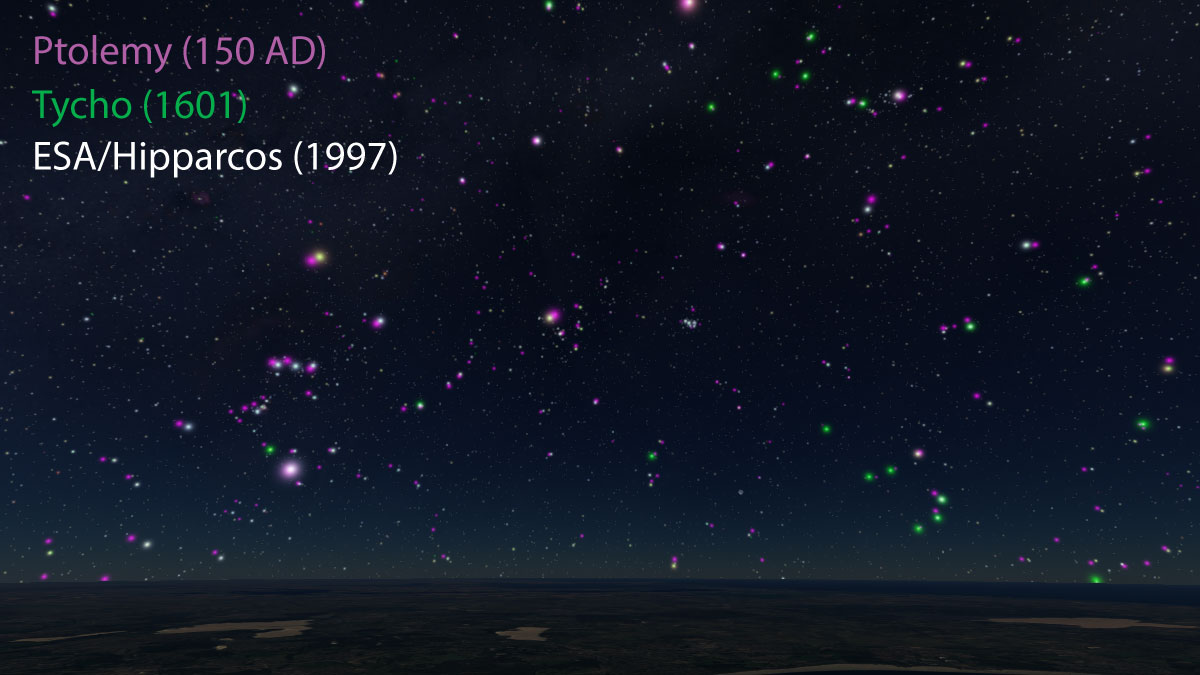
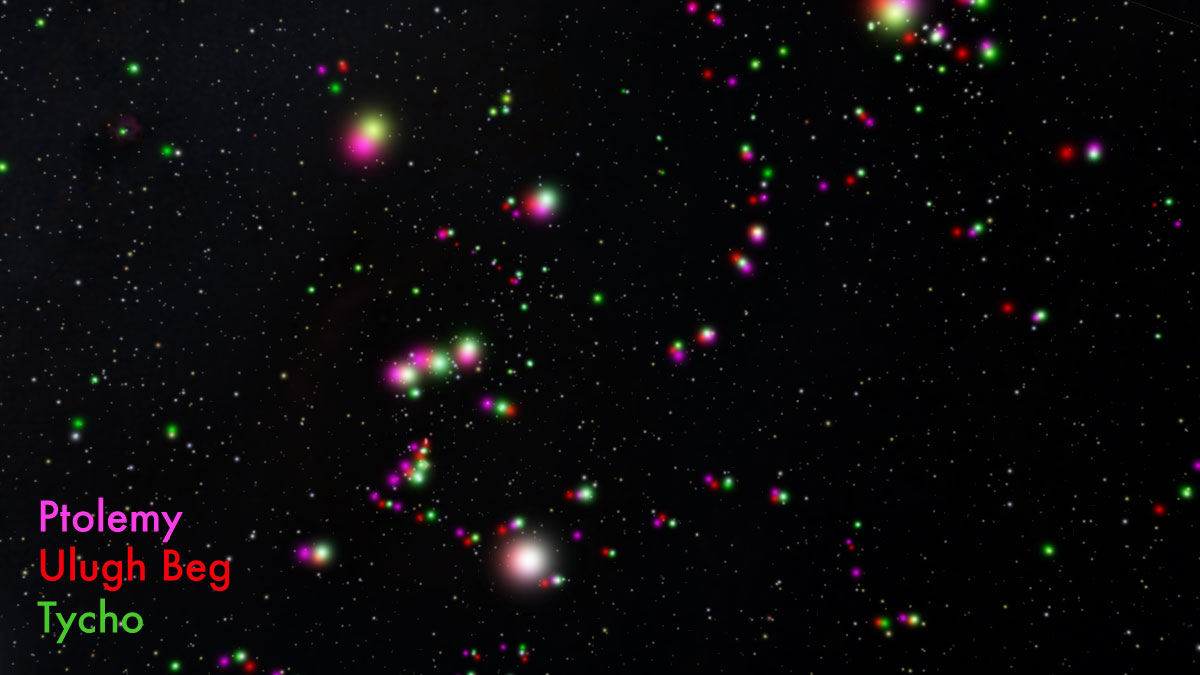
add ulugh beg and change file format reader

diff --git a/historical-star-catalogs/scripts/makeSpeckFromPtolemy.py b/historical-star-catalogs/scripts/makeSpeckFromPtolemy.py
@@ -15,7 +15,7 @@ from astropy.coordinates import Latitude, Longitude  # Angles
 
 #data set can be found here: https://www.aanda.org/articles/aa/abs/2010/08/aa14002-10/aa14002-10.html
 
-filename = 'keplere.dat'
+filename = 'ptolema.dat'
 lines=[]
 labellines=[]
 brightnessFixed = 0.0
@@ -31,31 +31,30 @@ print('number of rows: ' + str(nRows))
 #define the rows to skip
 skip = np.arange(nRows)
 skip = np.delete(skip, np.arange(0, nRows, 5))
-#setup the widths of the columns as described here: http://cdsarc.u-strasbg.fr/viz-bin/ReadMe/J/A+A/516/A28?format=html&tex=true
+#setup the widths of the columns as described here: http://cdsarc.u-strasbg.fr/viz-bin/ReadMe/J/A+A/544/A31?format=html&tex=true
 widths = [
-    5, #Sequence number in Manuscript Catalogue
-    4, #Sequence number in Brahe 1602 edition
-    4, #Sequence number in Kepler 1627 edition
-    4, #Sequence number of constellation in Kepler
-    1, #[=]
-    4, #Abbreviation of constellation name
-    3, #Sequence number of star in constellation
-    3, #[1,12] Zodiacal sign of ecliptic longitude
-    3, #[0,30] Degrees of ecliptic longitude
-    5, #Arcminutes of ecliptic longitude
-    3, #Degrees of ecliptic latitude
-    5, #Arcminutes of ecliptic latitude
-    2, #[AB] Sign of ecliptic latitude
-    1, #Magnitude as given by Brahe; 9 for `nebulous'
-    1, #[.:] Magnitude qualifier
-    8, #? Hipparcos number of identification
-    2, #[1,6] Quality of identification
+    4, # 0 Sequence number in Ptolemaios Catalogue
+    3, # 1 Constellation sequence number
+    2, # 2 [=]
+    3, # 3 Abbreviation of constellation name
+    3, # 4 Sequence number of star in constellation
+    1, # 5 'a' for star outside the constellation figure
+    4, # 6 [1/12] Zodiacal sign of longitude
+    3, # 7 [0/30] Longitude (degrees)
+    3, # 8 [0/59] Longitude (arcmin) 
+    4, # 9 [0/90] Ecliptic latitude (degrees)
+    3, # 10 [0/60] Ecliptic latitude (arcmin)
+    2, # 11 Sign of latitude
+    3, # 12 Magnitude as given by Ptolemaios
+    1, # 13 [bf] brighter/fainter qualifier by Ptolemaios
+    7, # 14 Hipparcos number of identification
+    2, # 15 [1,6] Quality of identification
     
 ]
 
 #read in the fixed width file using the defined widths
 
-data = pd.read_fwf(filename, header=None, widths=widths, nrows = 1006)
+data = pd.read_fwf(filename, header=None, widths=widths, nrows = 1027)
 print(data)
 
 for index, row in data.iterrows():
@@ -63,18 +62,18 @@ for index, row in data.iterrows():
     
     #set -1 for latitude if in the australis hemisphere (A)
     
-    if row[12] == 'A':
+    if row[11] == 'A':
         signLat = -1
     else :
         signLat = 1
         
-    brightness = str(row[13])
+    brightness = str(row[12])
     #print(row[12])
 
     #account for brightness modifier, if '.' then make a little dimmer, if ':' then make a little brighter
-    if row[14] == '.' :
+    if row[13] == 'f' :
         brightnessFixed = float(brightness)+.3
-    elif row[14] == ':' :
+    elif row[13] == 'b' :
         brightnessFixed = float(brightness)-.3
     else :
         brightnessFixed = float(brightness)
@@ -82,12 +81,12 @@ for index, row in data.iterrows():
 
     # Longitudes are measured as degrees from a zodic sign, which is in column [7] of the data
     
-    ra = Longitude(((row[7]-1)*30+row[8],row[9]), unit=u.deg)
-    dec = Latitude((signLat*row[10],row[11]), unit=u.deg)
+    ra = Longitude(((row[6]-1)*30+row[7],row[8]), unit=u.deg)
+    dec = Latitude((signLat*row[9],row[10]), unit=u.deg)
     
     #The Equinox of 1601 is chosen for the Tycho Data Set.
     
-    object = SkyCoord(ra,dec,distance=10*u.pc, frame='geocentrictrueecliptic', equinox='+01601-01-01T12:00:00.0')
+    object = SkyCoord(ra,dec,distance=10*u.pc, frame='geocentrictrueecliptic', equinox='+00058-01-01T12:00:00.0')
 
     astar = " "+str(object.galactic.cartesian.x.value)+" "+ \
           str(object.galactic.cartesian.y.value)+" "+ \
@@ -108,14 +107,14 @@ for index, row in data.iterrows():
 
 # save the speck files for the stars and labels
 
-afile = open('tycho.speck', 'w')
+afile = open('ptolemy.speck', 'w')
 afile.write("datavar 0 colorb_v \n"+"datavar 1 lum \n"+"datavar 2 absmag \n"+"datavar 3 appmag \n")
 for line in lines:
     afile.write("%s\n" % line)
 
 afile.close()
 
-afile2 = open('tycho_labels.label', 'w')
+afile2 = open('ptolemy_labels.label', 'w')
 afile2.write("textcolor 1 \n")
 for line in labellines:
     afile2.write("%s\n" % line)

diff --git a/historical-star-catalogs/scripts/makeSpeckFromUlughBeg.py b/historical-star-catalogs/scripts/makeSpeckFromUlughBeg.py
@@ -15,7 +15,7 @@ from astropy.coordinates import Latitude, Longitude  # Angles
 
 #data set can be found here: https://www.aanda.org/articles/aa/abs/2010/08/aa14002-10/aa14002-10.html
 
-filename = 'keplere.dat'
+filename = 'ulughbeg.dat'
 lines=[]
 labellines=[]
 brightnessFixed = 0.0
@@ -33,29 +33,30 @@ skip = np.arange(nRows)
 skip = np.delete(skip, np.arange(0, nRows, 5))
 #setup the widths of the columns as described here: http://cdsarc.u-strasbg.fr/viz-bin/ReadMe/J/A+A/516/A28?format=html&tex=true
 widths = [
-    5, #Sequence number in Manuscript Catalogue
-    4, #Sequence number in Brahe 1602 edition
-    4, #Sequence number in Kepler 1627 edition
-    4, #Sequence number of constellation in Kepler
-    1, #[=]
-    4, #Abbreviation of constellation name
-    3, #Sequence number of star in constellation
-    3, #[1,12] Zodiacal sign of ecliptic longitude
-    3, #[0,30] Degrees of ecliptic longitude
-    5, #Arcminutes of ecliptic longitude
-    3, #Degrees of ecliptic latitude
-    5, #Arcminutes of ecliptic latitude
-    2, #[AB] Sign of ecliptic latitude
-    1, #Magnitude as given by Brahe; 9 for `nebulous'
-    1, #[.:] Magnitude qualifier
-    8, #? Hipparcos number of identification
-    2, #[1,6] Quality of identification
+    4, # 0 Sequence number in Ptolemaios Catalogue
+    1, # 1'c' when the position is derived from Ptolemaios via al-Sufi
+    5, # 2 Corresponding sequence number of in Ptolemaios
+    4, # 3 Sequence number of constellation
+    2, # 4 =
+    3, # 5 Abbreviation of constellation name
+    3, # 6 Sequence number of star in constellation
+    1, # 7 'a' for star outside the constellation figure
+    4, # 8 [0/11] Zodiacal sign of longitude
+    3, # 9 [0/30] Longitude (degrees)
+    3, # 10 [0/59] Longitude (arcmin) 
+    5, # 11 [0/90] Ecliptic latitude (degrees)
+    3, # 12 [0/60] Ecliptic latitude (arcmin)
+    2, # 13 [A/B] Sign of latitude
+    3, # 14 Magnitude as given by Ulugh Beg
+    1, # 15 [bf] brighter/fainter qualifier by Ulugh Beg
+    7, # 16 Hipparcos number of identification
+    2, # 17 [1,6] Quality of identification
     
 ]
 
 #read in the fixed width file using the defined widths
 
-data = pd.read_fwf(filename, header=None, widths=widths, nrows = 1006)
+data = pd.read_fwf(filename, header=None, widths=widths, nrows = 1016)
 print(data)
 
 for index, row in data.iterrows():
@@ -63,18 +64,18 @@ for index, row in data.iterrows():
     
     #set -1 for latitude if in the australis hemisphere (A)
     
-    if row[12] == 'A':
+    if row[13] == 'A':
         signLat = -1
     else :
         signLat = 1
         
-    brightness = str(row[13])
+    brightness = str(row[14])
     #print(row[12])
 
     #account for brightness modifier, if '.' then make a little dimmer, if ':' then make a little brighter
-    if row[14] == '.' :
+    if row[15] == 'f' :
         brightnessFixed = float(brightness)+.3
-    elif row[14] == ':' :
+    elif row[15] == 'b' :
         brightnessFixed = float(brightness)-.3
     else :
         brightnessFixed = float(brightness)
@@ -82,12 +83,12 @@ for index, row in data.iterrows():
 
     # Longitudes are measured as degrees from a zodic sign, which is in column [7] of the data
     
-    ra = Longitude(((row[7]-1)*30+row[8],row[9]), unit=u.deg)
-    dec = Latitude((signLat*row[10],row[11]), unit=u.deg)
+    ra = Longitude(((row[8])*30+row[9],row[10]), unit=u.deg)
+    dec = Latitude((signLat*row[11],row[12]), unit=u.deg)
     
     #The Equinox of 1601 is chosen for the Tycho Data Set.
     
-    object = SkyCoord(ra,dec,distance=10*u.pc, frame='geocentrictrueecliptic', equinox='+01601-01-01T12:00:00.0')
+    object = SkyCoord(ra,dec,distance=10*u.pc, frame='geocentrictrueecliptic', equinox='+01437-01-01T12:00:00.0')
 
     astar = " "+str(object.galactic.cartesian.x.value)+" "+ \
           str(object.galactic.cartesian.y.value)+" "+ \
@@ -108,14 +109,14 @@ for index, row in data.iterrows():
 
 # save the speck files for the stars and labels
 
-afile = open('tycho.speck', 'w')
+afile = open('ulughbeg.speck', 'w')
 afile.write("datavar 0 colorb_v \n"+"datavar 1 lum \n"+"datavar 2 absmag \n"+"datavar 3 appmag \n")
 for line in lines:
     afile.write("%s\n" % line)
 
 afile.close()
 
-afile2 = open('tycho_labels.label', 'w')
+afile2 = open('ulughbeg_labels.label', 'w')
 afile2.write("textcolor 1 \n")
 for line in labellines:
     afile2.write("%s\n" % line)

diff --git a/historical-star-catalogs/README.md b/historical-star-catalogs/README.md
@@ -1,6 +1,6 @@
 # Historical Star Catalogs
 
-Adds two star catalogs from Ptolemy and Tycho Brahe/Kepler using RenderableStars.
+Adds two star catalogs from Ptolemy, Ulugh Beg, and Tycho Brahe/Kepler using RenderableStars.
 
 
 ![Comparison](screenshots/comparison-image.jpg)
@@ -8,14 +8,15 @@ Adds two star catalogs from Ptolemy and Tycho Brahe/Kepler using RenderableStars
 Data processed and coordinates converted using the enclosed astropy scripts.
 
 Equinox for Ptolemy is chosen as 58 AD
+Equinox for Ulugh Beg is 1437
 Equinox for Tycho is chosen as 1601 AD
 
 Distances to stars were set at 10pc (completely arbitrary)
 
 Data obtained from:
 
-Ptolemy:
-[Seeing Ancient Stars](http://www.etwright.org/astro/almagest.html)
+Ptolemy/Ulugh Beg:
+[A&A Volume 544, August 2012](https://www.aanda.org/articles/aa/abs/2012/08/aa19596-12/aa19596-12.html)
 
 Tycho/Kepler:
 [A&A Volume 516, June-July 2010](https://www.aanda.org/articles/aa/abs/2010/08/aa14002-10/aa14002-10.html)
@@ -24,14 +25,18 @@ Usage:
 
 
 ```
-asset.request('addonds-dev/historical-star-catalogs/historical-star-catalogs')
+asset.request('addons/historical-star-catalogs/historical-star-catalogs')
 ```
 
 or individually:
 
 ```
-asset.request('addons-dev/historical-star-catalogs/almagest-stars-as-stars')
-asset.request('addons-dev/historical-star-catalogs/almagest_starlabels')
-asset.request('addons-dev/historical-star-catalogs/tycho-stars-as-stars')
-asset.request('addons-dev/historical-star-catalogs/tycho_starlabels')
+asset.request('addons/historical-star-catalogs/almagest-stars-as-stars')
+asset.request('addons/historical-star-catalogs/almagest_starlabels')
+asset.require('addons/historical-star-catalogs/ulughbeg-stars-as-stars')
+asset.require('addons/historical-star-catalogs/ulughbeg-starlabels')
+asset.request('addons/historical-star-catalogs/tycho-stars-as-stars')
+asset.request('addons/historical-star-catalogs/tycho_starlabels')
 ```
+![Animation](screenshots/allfourstarcatalogs.gif)
+![Almagest As Sphere](screenshots/almagest-stars.jpg)
